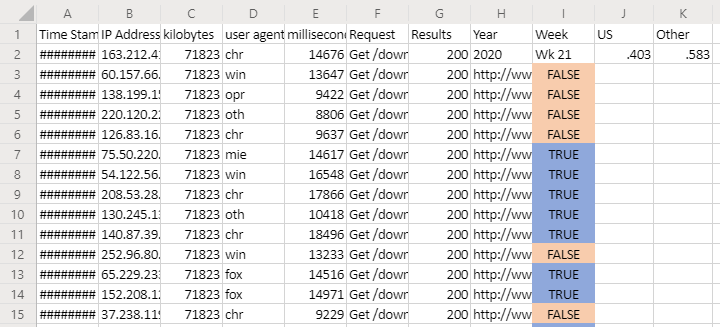
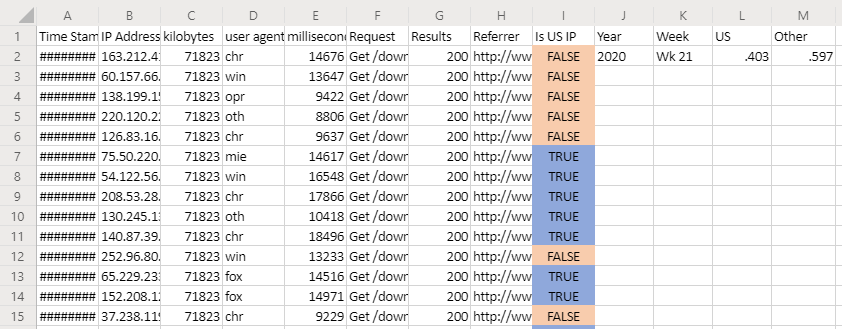
Feedback

diff --git a/docs/resources/scenarios/analyze-web-downloads.md b/docs/resources/scenarios/analyze-web-downloads.md
@@ -1,5 +1,5 @@
 ---
-title: 'Office Scripts sample scenario: Internet Traffic Analysis'
+title: 'Office Scripts sample scenario: Analyze web downloads'
 description: 'A sample that takes raw internet traffic data in an Excel workbook and determines the origin location, before organizing that information into a table.'
 ms.date: 02/18/2020
 localization_priority: Normal
@@ -7,11 +7,11 @@ localization_priority: Normal
 
 # Office Scripts sample scenario: Analyze web downloads
 
-In this scenario, you are tasked with analyzing download reports from your company's website. The goal of this analysis is to determine if the web traffic is coming from the United States or elsewhere in the world.
+In this scenario, you're tasked with analyzing download reports from your company's website. The goal of this analysis is to determine if the web traffic is coming from the United States or elsewhere in the world.
 
 Your colleagues upload the raw data to your workbook. Each week's set of data has its own worksheet. There is also the **Summary** worksheet with a table and chart that shows week-over-week trends.
 
-The script you've developed in this scenario helps analyze one of these weekly worksheets. It parses each IP address associated with a download and determines whether or not it came from the US. The answer is inserted in the worksheet as a boolean value ("TRUE" or "FALSE") and conditional formatting is applied to those cells. The IP address location results are totaled on the worksheet and copied to the summary table.
+In this scenario, you'll develop a script that analyzes weekly downloads data in the active worksheet. It will parse the IP address associated with each download and determine whether or not it came from the US. The answer will be inserted in the worksheet as a boolean value ("TRUE" or "FALSE") and conditional formatting will be applied to those cells. The IP address location results will be totaled on the worksheet and copied to the summary table.
 
 ## Scripting skills covered
 
@@ -48,7 +48,7 @@ This sample was demoed as part of the Office Add-ins developer community call fo
       const summaryWorksheet = context.workbook.worksheets.getItem("Summary");
       const summaryTable = context.workbook.tables.getItem("Table1");
 
-      // Get the range that will contain TRUE/FALSE if the IP address is from the US.
+      // Get the range that will contain TRUE/FALSE if the IP address is from the United States (US).
       const isUSColumn = logRange
         .getLastColumn()
         .getOffsetRange(0, 1)
@@ -91,7 +91,7 @@ This sample was demoed as part of the Office Add-ins developer community call fo
       // Get the calculated summary data.
       const summaryRange = context.workbook.worksheets
         .getActiveWorksheet()
-        .getRange("H2:K2")
+        .getRange("J2:M2")
         .load("values");
       await context.sync();
 
@@ -139,10 +139,10 @@ This sample was demoed as part of the Office Add-ins developer community call fo
         ];
         let summaryHeaderRow = context.workbook.worksheets
           .getActiveWorksheet()
-          .getRange("H1:K1");
+          .getRange("J1:M1");
         let summaryContentRow = context.workbook.worksheets
           .getActiveWorksheet()
-          .getRange("H2:K2");
+          .getRange("J2:M2");
         summaryHeaderRow.values = summaryHeader;
         summaryContentRow.values = summaryContent;
         let formats = [[".000", ".000"]];
@@ -182,7 +182,7 @@ This sample was demoed as part of the Office Add-ins developer community call fo
 
 ## Running the script
 
-Run the **Analyze Web Downloads** script on one of the **Week\*\*** worksheets. This will apply the conditional formatting and location labelling on the current sheet. It also updates the **Summary** worksheet.
+Navigate to any of the **Week\*\*** worksheets and run the **Analyze Web Downloads** script. The script will apply the conditional formatting and location labelling on the current sheet. It will also update the **Summary** worksheet.
 
 ### Before running the script
 

diff --git a/docs/resources/scenarios/sample-scenario-overview.md b/docs/resources/scenarios/sample-scenario-overview.md
@@ -1,19 +1,19 @@
 ---
-title: 'Sample Scenarios for Office Scripts'
+title: 'Sample scenarios for Office Scripts'
 description: 'An explanation for the larger, scenario-driven samples for Office Scripts in Excel on the web.'
-ms.date: 02/13/2020
+ms.date: 02/19/2020
 localization_priority: Normal
 ---
 
-# Sample Scenarios for Office Scripts
+# Sample scenarios for Office Scripts
 
-Office Scripts help automate parts of your daily routine. These day-to-day tasks often exist in unique ecosystems, with Excel workbooks that are set up in particular ways. These larger scenario samples demonstrate such real-world use-cases. They include both the Office Scripts and the workbooks, so you can see the scenario from end to end.
+Office Scripts can automate parts of your daily routine. These day-to-day tasks often exist in unique ecosystems, with Excel workbooks that are set up in particular ways. These larger scenario samples demonstrate such real-world use-cases. They include both the Office Scripts and the workbooks, so you can see the scenario from end to end.
 
 ## Scenarios
 
-### [Analyze web downloads](analyze-web-downloads.md)
+### Analyze web downloads
 
-This scenario features a script that parses web traffic records to determine a user's country of origin. It showcases the skills of text parsing, using subfunctions in scripts, applying conditional formatting, and working with tables.
+The [Analyze web downloads](analyze-web-downloads.md) scenario features a script that parses web traffic records to determine a user's country of origin. It showcases the skills of text parsing, using subfunctions in scripts, applying conditional formatting, and working with tables.
 
 ## See also
 

diff --git a/docs/resources/excel-samples.md b/docs/resources/excel-samples.md
@@ -1,7 +1,7 @@
 ---
 title: 'Sample scripts for Office Scripts in Excel on the web'
 description: 'A collection of code samples to use with Office Scripts in Excel on the web.'
-ms.date: 02/13/2020
+ms.date: 02/19/2020
 localization_priority: Normal
 ---
 
@@ -134,7 +134,7 @@ async function main(context: Excel.RequestContext) {
 
 ## Scenario samples
 
-For samples showcasing larger, real-world solutions, visit [Sample Scenarios for Office Scripts](scenarios/sample-scenario-overview.md).
+For samples showcasing larger, real-world solutions, visit [Sample scenarios for Office Scripts](scenarios/sample-scenario-overview.md).
 
 ## Suggest new samples
 
